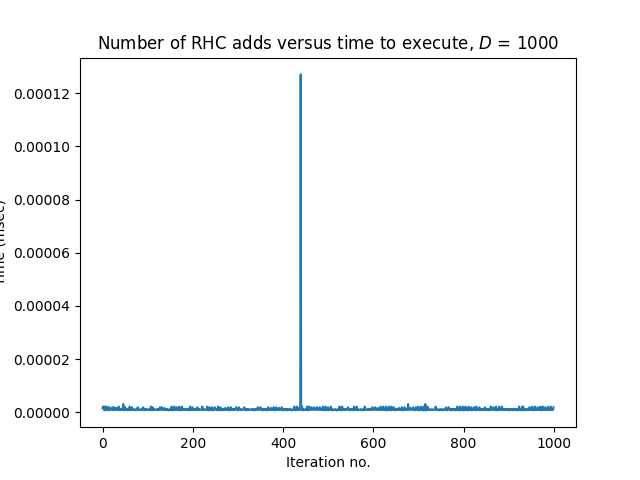
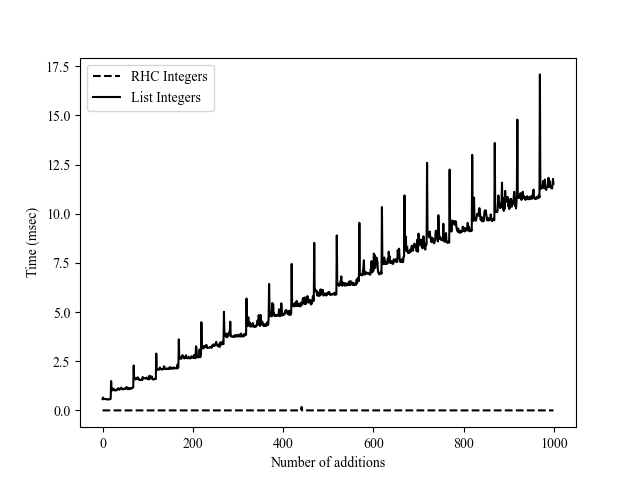
added license and perf

diff --git a/src/language/interpreter.py b/src/language/interpreter.py
@@ -56,9 +56,9 @@ def is_approx_eq[T: (
         `True` iff the similarity between the `x` and `y` is greater than
         `floor`, `False` otherwise.
     """
-    print("is_approx_eq call", file=sys.stderr)
+    # print("is_approx_eq call", file=sys.stderr)
     similarity = abs(env.vsa.similarity(x.data, y.data))
-    print(f"\tsimilarity = {similarity}", file=sys.stderr)
+    # print(f"\tsimilarity = {similarity}", file=sys.stderr)
     return similarity > floor
 
 
@@ -115,7 +115,7 @@ def check_atomic[T: (
     VSA[np.float64],
 )](expr: T, enc_env: EncodingEnvironment[T], floor: float = 0.2,) -> T:
     """Determine whether or not a value is an atomic value or a list."""
-    print("check_atomic_call", file=sys.stderr)
+    # print("check_atomic_call", file=sys.stderr)
     value = enc_env.associative_memory.deref(expr)
     if value is None:
         return enc_env.codebook["#t"]
@@ -195,7 +195,7 @@ def car[T: (
     Raises:
         `InterpreterError`.
     """
-    print("car call", file=sys.stderr)
+    # print("car call", file=sys.stderr)
     value = enc_env.associative_memory.deref(expr)
     if value is None:
         raise InterpreterError("Segmentation fault in car hehe")
@@ -224,7 +224,7 @@ def cdr[T: (
     Raises:
         `InterpreterError`.
     """
-    print("cdr call", file=sys.stderr)
+    # print("cdr call", file=sys.stderr)
     value = enc_env.associative_memory.deref(expr)
     if value is None:
         raise InterpreterError("Segmentation fault in cdr hehe")
@@ -550,7 +550,7 @@ def make_function_pointer[T: (
         A semantic pointer in the encoding environment that points to a
         function body chunk.
     """
-    print("make_function_pointer call", file=sys.stderr)
+    # print("make_function_pointer call", file=sys.stderr)
     tagged_args = enc_env.vsa.bind(args.data, enc_env.codebook["__args"].data)
     tagged_body = enc_env.vsa.bind(body.data, enc_env.codebook["__body"].data)
     function_tag = enc_env.codebook["__func"].data
@@ -580,7 +580,7 @@ def evaluate_lambda[T: (
         A semantic function pointer in `enc_env.associative_memory` which
         points to a function chunk.
     """
-    print("evaluate_lambda call", file=sys.stderr)
+    # print("evaluate_lambda call", file=sys.stderr)
     args = car(function_body, enc_env, eval_env)
     body = cdr(function_body, enc_env, eval_env)
     return make_function_pointer(args, body, enc_env, eval_env)
@@ -603,7 +603,7 @@ def evaluate_define[T: (
     Raises:
         `InterpreterError`.
     """
-    print("evaluate_define call", file=sys.stderr)
+    # print("evaluate_define call", file=sys.stderr)
     name = car(define_body, enc_env, eval_env)
     body = car(cdr(define_body, enc_env, eval_env), enc_env, eval_env)
     eval_env.define_mem.associate(name, body)
@@ -633,7 +633,7 @@ def evaluate_application[T: (
     Raises:
         `InterpreterError`.
     """
-    print("evaluate_application call", file=sys.stderr)
+    # print("evaluate_application call", file=sys.stderr)
     operator_v: T
     if (eval_env.locals_ is not None) and (
         mayb_local_val := eval_env.locals_.deref(rator)
@@ -646,63 +646,63 @@ def evaluate_application[T: (
     operator_v = enc_env.cleanup_memory.recall(operator_v)
 
     if is_approx_eq(operator_v, enc_env.codebook["car"], enc_env):
-        print("closest to `car`", file=sys.stderr)
+        # print("closest to `car`", file=sys.stderr)
         # we evaluate the result of the operation, as we are not doing
         # syntactic manipulation.
         car_ = car(rand, enc_env, eval_env)
 
-        if not is_nil(cdr(rand, enc_env, eval_env), enc_env):
-            print(
-                "WARNING: car takes only one argument, ignoring the rest!",
-                file=sys.stderr,
-            )
+        # if not is_nil(cdr(rand, enc_env, eval_env), enc_env):
+        # print(
+        # "WARNING: car takes only one argument, ignoring the rest!",
+        # file=sys.stderr,
+        # )
 
         value = evaluate(car_, enc_env, eval_env)
         return car(value, enc_env, eval_env)
     elif is_approx_eq(operator_v, enc_env.codebook["cdr"], enc_env):
-        print("closest to `cdr`", file=sys.stderr)
+        # print("closest to `cdr`", file=sys.stderr)
         # ditto here
         car_ = car(rand, enc_env, eval_env)
 
-        if not is_nil(cdr(rand, enc_env, eval_env), enc_env):
-            print(
-                "WARNING: cdr takes only one argument, ignoring the rest!",
-                file=sys.stderr,
-            )
+        # if not is_nil(cdr(rand, enc_env, eval_env), enc_env):
+        #     #print(
+        #         "WARNING: cdr takes only one argument, ignoring the rest!",
+        #         file=sys.stderr,
+        #     )
 
         value = evaluate(car_, enc_env, eval_env)
         return cdr(value, enc_env, eval_env)
     elif is_approx_eq(operator_v, enc_env.codebook["cons"], enc_env):
-        print("closest to `cons`", file=sys.stderr)
+        # print("closest to `cons`", file=sys.stderr)
         return cons(rand, enc_env, eval_env)
     elif is_approx_eq(operator_v, enc_env.codebook["eq?"], enc_env):
-        print("closest to `eq?`", file=sys.stderr)
+        # print("closest to `eq?`", file=sys.stderr)
         return eq(rand, enc_env, eval_env)
     elif is_approx_eq(operator_v, enc_env.codebook["atom?"], enc_env):
-        print("closest to `atom?`", file=sys.stderr)
+        # print("closest to `atom?`", file=sys.stderr)
         return atom(rand, enc_env, eval_env)
     elif is_approx_eq(operator_v, enc_env.codebook["if"], enc_env):
-        print("closest to `if`", file=sys.stderr)
+        # print("closest to `if`", file=sys.stderr)
         return if_(rand, enc_env, eval_env)
     elif is_approx_eq(operator_v, enc_env.codebook["quote"], enc_env):
-        print("closest to `quote`", file=sys.stderr)
+        # print("closest to `quote`", file=sys.stderr)
         return quote(rand, enc_env, eval_env)
     elif is_approx_eq(operator_v, enc_env.codebook["+"], enc_env):
-        print("closest to `+`", file=sys.stderr)
+        # print("closest to `+`", file=sys.stderr)
         return add(rand, enc_env, eval_env)
     elif is_approx_eq(operator_v, enc_env.codebook["-"], enc_env):
-        print("closest to `-`", file=sys.stderr)
+        # print("closest to `-`", file=sys.stderr)
         return sub(rand, enc_env, eval_env)
     elif is_approx_eq(operator_v, enc_env.codebook["*"], enc_env):
-        print("closest to `*`", file=sys.stderr)
+        # print("closest to `*`", file=sys.stderr)
         return mul(rand, enc_env, eval_env)
     elif is_approx_eq(operator_v, enc_env.codebook["/"], enc_env):
-        print("closest to `/`", file=sys.stderr)
+        # print("closest to `/`", file=sys.stderr)
         return div(rand, enc_env, eval_env)
-    elif is_approx_eq(
-        check_function(operator_v, enc_env), enc_env.codebook["#t"], enc_env
-    ):
-        print("is a function!", file=sys.stderr)
+    # elif is_approx_eq(
+    #     check_function(operator_v, enc_env), enc_env.codebook["#t"], enc_env
+    # ):
+    #     #print("is a function!", file=sys.stderr)
     else:
         eval_rand = evaluate(rand, enc_env, eval_env)
         return make_cons(operator_v, eval_rand, enc_env)
@@ -727,26 +727,26 @@ def evaluate[T: (
     Raises:
         `InterpreterError`.
     """
-    print("evaluate call", file=sys.stderr)
+    # print("evaluate call", file=sys.stderr)
     if is_approx_eq(check_atomic(expr, enc_env), enc_env.codebook["#t"], enc_env):
-        print("\texpression is an atom", file=sys.stderr)
+        # print("\texpression is an atom", file=sys.stderr)
 
         # TODO: fix this to check first locals if available, then
         # fall through to define
         if eval_env.locals_ is None:
             res = eval_env.define_mem.deref(expr)
             if res is None:
-                print("value not found in `define_mem`", file=sys.stderr)
+                # print("value not found in `define_mem`", file=sys.stderr)
                 return expr
             return res
         else:
             res = eval_env.locals_.deref(expr)
             if res is None:
-                print("value not found in `locals_`", file=sys.stderr)
+                # print("value not found in `locals_`", file=sys.stderr)
                 return expr
             return res
 
-    print("\texpression is non-atomic", file=sys.stderr)
+    # print("\texpression is non-atomic", file=sys.stderr)
     head = car(expr, enc_env, eval_env)
     tail = cdr(expr, enc_env, eval_env)
 
@@ -845,4 +845,4 @@ def interpret[T: (
 
     result = evaluate(encoded_rep, encoding_env, eval_env)
     decoded_result = decode(result, encoding_env, eval_env)
-    print(decoded_result)
+    # print(decoded_result)

diff --git a/src/perf/rhc_versus_cons_encoding.py b/src/perf/rhc_versus_cons_encoding.py
@@ -66,19 +66,15 @@ def perf() -> None:
     rhc_bind: list[tuple[float, int]] = iterated_rhc_bind(
         dim=dim, iterations=num_iterations
     )
-    times = [time for time, _ in rhc_bind]
+    times = [time * 1000 for time, _ in rhc_bind]
     iterations = [iteration for _, iteration in rhc_bind]
-    plt.plot(iterations, times)
-    plt.title(f"Number of RHC adds versus time to execute, $D$ = {dim}")
-    plt.xlabel("Iteration no.")
-    plt.ylabel("Time (msec)")
-    plt.show()
-
+    plt.rcParams["font.family"] = "Times New Roman"
+    plt.plot(iterations, times, color="BLACK", linestyle="dashed", label="RHC Integers")
     iter_cons = iterated_cons_add(dim=dim, iterations=num_iterations)
     times = [time * 1000 for time, _ in iter_cons]
     iterations = [iteration for _, iteration in iter_cons]
-    plt.plot(iterations, times)
-    plt.title(f"Number of List adds versus time to execute, $D$ = {dim}")
-    plt.xlabel("Iteration no.")
+    plt.plot(iterations, times, color="BLACK", label="List Integers")
+    plt.xlabel("Number of additions")
     plt.ylabel("Time (msec)")
+    plt.legend()
     plt.show()

diff --git a/src/language/encoding.py b/src/language/encoding.py
@@ -90,8 +90,8 @@ class CleanupMemory[T: (VSA[np.complex128], VSA[np.float64])]:
         self.memory_matrix[self.size, :] = x.data
         self.size += 1
 
-        if name is not None:
-            print(f"stored {name} at row {self.size-1}", file=sys.stderr)
+        # if name is not None:
+        #     print(f"stored {name} at row {self.size-1}", file=sys.stderr)
 
         return x
 
